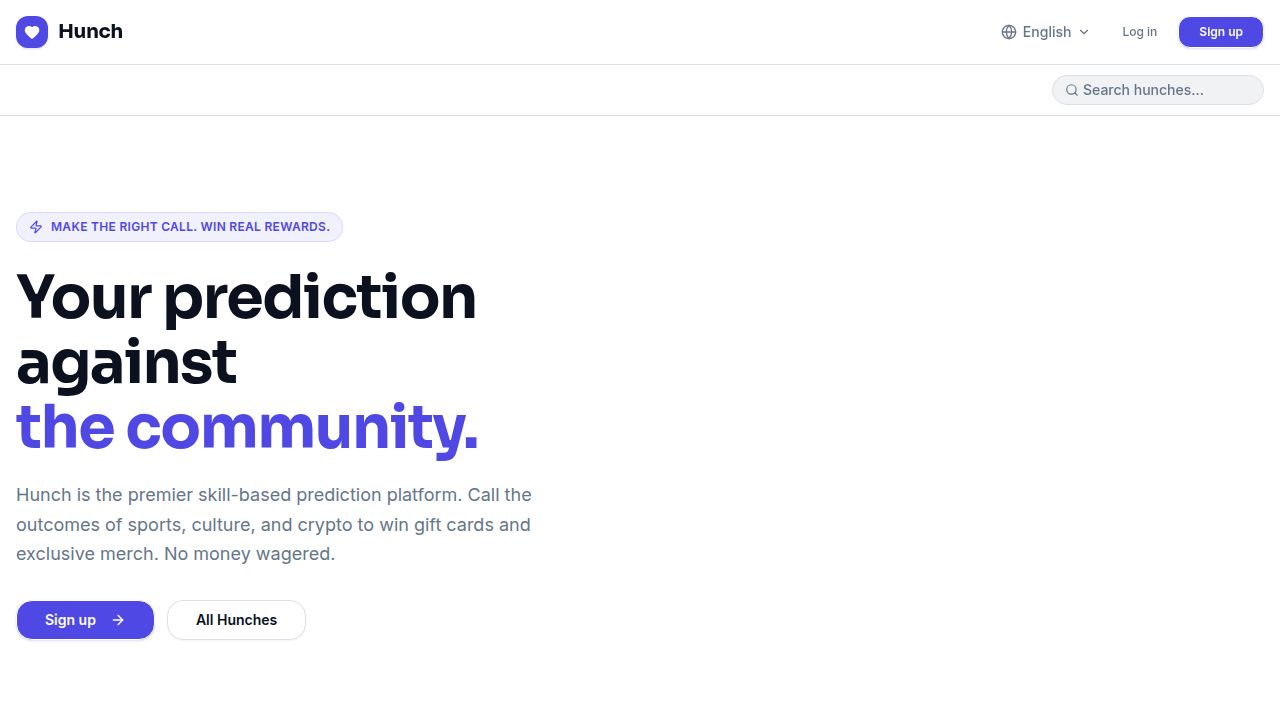
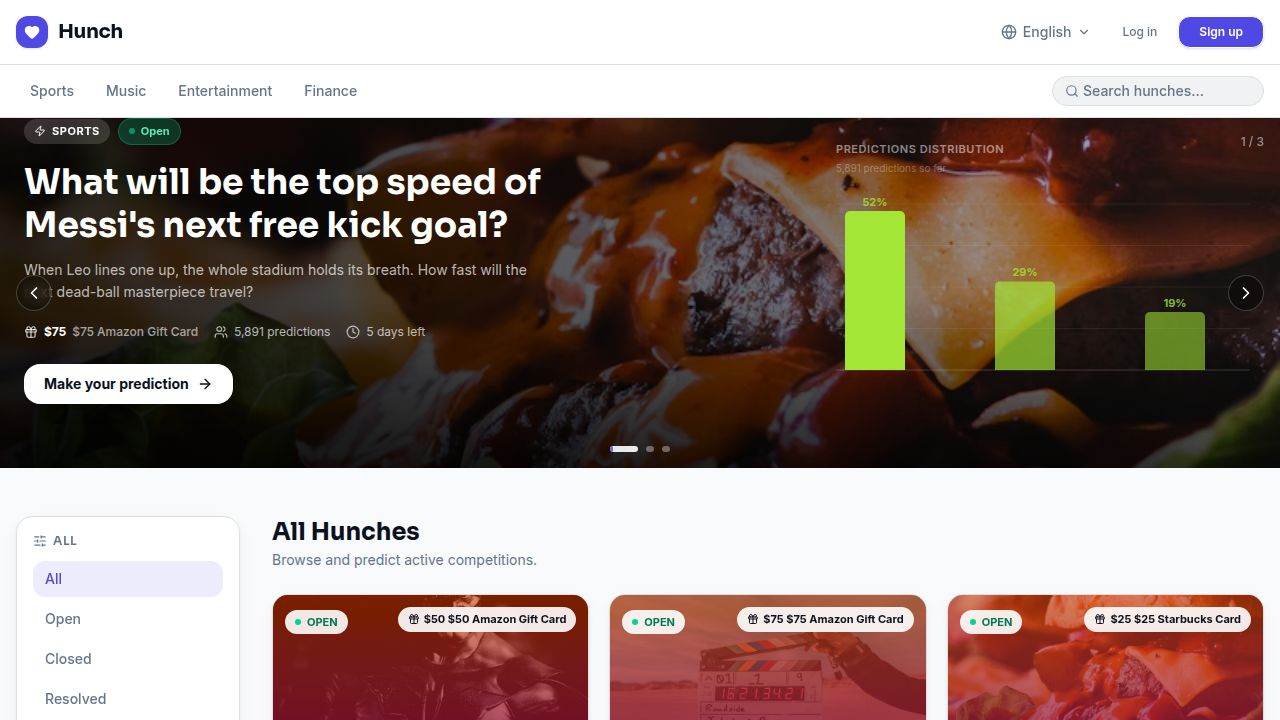
Add a section to user profiles to view active and past predictions
Introduces a new API endpoint `/auth/my-hunches` to fetch user predictions and integrates a `MyHunchesSection` component into the account page, displaying active and past hunches with relevant details and status indicators.

Replit-Commit-Author: Agent
Replit-Commit-Session-Id: c213d012-5b8c-4dcb-91ea-a871a2756a55
Replit-Commit-Checkpoint-Type: full_checkpoint
Replit-Commit-Event-Id: fa843858-0a04-4f65-bb06-474ab399ec9a
Replit-Commit-Screenshot-Url: https://storage.googleapis.com/screenshot-production-us-central1/4ce0d22d-62c3-4f02-9776-44ab9113e667/c213d012-5b8c-4dcb-91ea-a871a2756a55/vBS3oU8
Replit-Helium-Checkpoint-Created: true

diff --git a/artifacts/hunches/src/pages/account.tsx b/artifacts/hunches/src/pages/account.tsx
@@ -10,7 +10,30 @@ import { useUpload } from "@workspace/object-storage-web";
 import {
   AtSign, Check, X, Loader2, Mail, Phone, Calendar,
   MapPin, Lock, Trash2, AlertTriangle, ChevronRight, Camera,
+  Clock, CheckCircle2, XCircle, Users, Hourglass,
 } from "lucide-react";
+
+// ── Types ─────────────────────────────────────────────────────────────────────
+
+interface MyHunchRow {
+  predictionId: number;
+  predictionCreatedAt: string;
+  optionId: number;
+  optionLabel: string;
+  optionPercentage: number;
+  hunchId: number;
+  hunchSlug: string | null;
+  hunchTitle: string;
+  hunchStatus: string;
+  hunchEndsAt: string;
+  hunchImageUrl: string | null;
+  hunchWinnerOption: string | null;
+  hunchParticipantCount: number;
+  hunchTicketCost: number;
+  categoryName: string;
+  categoryColor: string;
+  categoryIcon: string;
+}
 
 // ── Helpers ───────────────────────────────────────────────────────────────────
 
@@ -20,6 +43,183 @@ function formatDate(iso: string | null) {
   return new Date(Number(y), Number(m) - 1, Number(d)).toLocaleDateString("en-US", {
     year: "numeric", month: "long", day: "numeric",
   });
+}
+
+function timeLeft(iso: string): string {
+  const diff = new Date(iso).getTime() - Date.now();
+  if (diff <= 0) return "Ended";
+  const days = Math.floor(diff / 86400000);
+  const hours = Math.floor((diff % 86400000) / 3600000);
+  const mins = Math.floor((diff % 3600000) / 60000);
+  if (days > 0) return `${days}d ${hours}h left`;
+  if (hours > 0) return `${hours}h ${mins}m left`;
+  return `${mins}m left`;
+}
+
+// ── My Hunches Section ────────────────────────────────────────────────────────
+
+function MyHunchesSection() {
+  const [, setLocation] = useLocation();
+  const [hunches, setHunches] = useState<MyHunchRow[]>([]);
+  const [loading, setLoading] = useState(true);
+  const [tab, setTab] = useState<"active" | "past">("active");
+
+  useEffect(() => {
+    fetch("/api/auth/my-hunches", { credentials: "include" })
+      .then((r) => r.json())
+      .then((data: MyHunchRow[]) => { setHunches(data); setLoading(false); })
+      .catch(() => setLoading(false));
+  }, []);
+
+  const active = hunches.filter((h) => h.hunchStatus === "open");
+  const past = hunches.filter((h) => h.hunchStatus !== "open");
+  const shown = tab === "active" ? active : past;
+
+  if (!loading && hunches.length === 0) return null;
+
+  return (
+    <div className="bg-card border border-border rounded-2xl overflow-hidden">
+      {/* Header with tab pills */}
+      <div className="px-6 py-4 border-b border-border flex items-center justify-between gap-4">
+        <h2 className="text-sm font-semibold text-foreground">My Hunches</h2>
+        <div className="flex items-center gap-1 bg-muted rounded-xl p-1">
+          {(["active", "past"] as const).map((t) => {
+            const count = t === "active" ? active.length : past.length;
+            return (
+              <button
+                key={t}
+                onClick={() => setTab(t)}
+                className={`flex items-center gap-1.5 px-3 py-1.5 rounded-lg text-xs font-semibold transition-colors ${
+                  tab === t ? "bg-card text-foreground shadow-sm" : "text-muted-foreground hover:text-foreground"
+                }`}
+              >
+                {t === "active" ? "Active" : "Past"}
+                {count > 0 && (
+                  <span className={`min-w-[18px] h-[18px] rounded-full flex items-center justify-center text-[10px] font-bold ${
+                    tab === t ? "bg-primary text-white" : "bg-muted-foreground/20 text-muted-foreground"
+                  }`}>{count}</span>
+                )}
+              </button>
+            );
+          })}
+        </div>
+      </div>
+
+      <div className="divide-y divide-border">
+        {loading ? (
+          [0, 1, 2].map((i) => (
+            <div key={i} className="px-6 py-4 flex items-center gap-4">
+              <div className="w-12 h-12 rounded-xl bg-muted animate-pulse shrink-0" />
+              <div className="flex-1 space-y-2">
+                <div className="h-3.5 bg-muted rounded animate-pulse w-3/4" />
+                <div className="h-3 bg-muted rounded animate-pulse w-1/2" />
+              </div>
+            </div>
+          ))
+        ) : shown.length === 0 ? (
+          <div className="px-6 py-10 text-center text-muted-foreground text-sm">
+            {tab === "active" ? "No active hunches right now." : "No past hunches yet."}
+          </div>
+        ) : (
+          shown.map((h) => {
+            const isResolved = h.hunchStatus === "resolved";
+            const isClosed = h.hunchStatus === "closed";
+            const won = isResolved && h.hunchWinnerOption != null && h.optionLabel === h.hunchWinnerOption;
+            const lost = isResolved && h.hunchWinnerOption != null && h.optionLabel !== h.hunchWinnerOption;
+
+            return (
+              <button
+                key={h.predictionId}
+                onClick={() => setLocation(h.hunchSlug ? `/hunch/${h.hunchSlug}` : "/")}
+                className="w-full text-left px-6 py-4 hover:bg-muted/40 transition-colors flex items-center gap-4 group"
+              >
+                {/* Thumbnail or category color swatch */}
+                <div className="shrink-0 w-12 h-12 rounded-xl overflow-hidden relative">
+                  {h.hunchImageUrl ? (
+                    <img src={h.hunchImageUrl} alt="" className="w-full h-full object-cover" />
+                  ) : (
+                    <div className="w-full h-full" style={{ backgroundColor: h.categoryColor + "22" }}>
+                      <div className="w-full h-full flex items-center justify-center">
+                        <div className="w-3 h-3 rounded-full" style={{ backgroundColor: h.categoryColor }} />
+                      </div>
+                    </div>
+                  )}
+                  {/* Status overlay icon */}
+                  <div className="absolute -bottom-1 -right-1">
+                    {h.hunchStatus === "open" && (
+                      <div className="w-5 h-5 rounded-full bg-green-500 border-2 border-card flex items-center justify-center">
+                        <Clock className="w-2.5 h-2.5 text-white" />
+                      </div>
+                    )}
+                    {won && (
+                      <div className="w-5 h-5 rounded-full bg-emerald-500 border-2 border-card flex items-center justify-center">
+                        <CheckCircle2 className="w-2.5 h-2.5 text-white" />
+                      </div>
+                    )}
+                    {lost && (
+                      <div className="w-5 h-5 rounded-full bg-red-500 border-2 border-card flex items-center justify-center">
+                        <XCircle className="w-2.5 h-2.5 text-white" />
+                      </div>
+                    )}
+                    {isClosed && (
+                      <div className="w-5 h-5 rounded-full bg-amber-500 border-2 border-card flex items-center justify-center">
+                        <Hourglass className="w-2.5 h-2.5 text-white" />
+                      </div>
+                    )}
+                  </div>
+                </div>
+
+                {/* Content */}
+                <div className="flex-1 min-w-0">
+                  <div className="flex items-center gap-2 mb-0.5">
+                    <span className="text-[10px] font-bold uppercase tracking-wider" style={{ color: h.categoryColor }}>
+                      {h.categoryName}
+                    </span>
+                  </div>
+                  <p className="text-sm font-semibold text-foreground leading-snug truncate pr-2">{h.hunchTitle}</p>
+                  <div className="flex items-center gap-3 mt-1">
+                    <span className="text-xs text-muted-foreground">
+                      Your pick: <span className="font-medium text-foreground">{h.optionLabel}</span>
+                      <span className="text-muted-foreground/70 ml-1">({Math.round(h.optionPercentage)}%)</span>
+                    </span>
+                    <span className="flex items-center gap-1 text-xs text-muted-foreground">
+                      <Users className="w-3 h-3" />
+                      {h.hunchParticipantCount.toLocaleString()}
+                    </span>
+                  </div>
+                </div>
+
+                {/* Right: status badge + arrow */}
+                <div className="flex items-center gap-2 shrink-0">
+                  {h.hunchStatus === "open" && (
+                    <span className="text-xs font-medium text-green-600 bg-green-50 border border-green-200 px-2.5 py-1 rounded-full whitespace-nowrap">
+                      {timeLeft(h.hunchEndsAt)}
+                    </span>
+                  )}
+                  {won && (
+                    <span className="text-xs font-bold text-emerald-700 bg-emerald-50 border border-emerald-200 px-2.5 py-1 rounded-full">
+                      Correct
+                    </span>
+                  )}
+                  {lost && (
+                    <span className="text-xs font-bold text-red-700 bg-red-50 border border-red-200 px-2.5 py-1 rounded-full">
+                      Incorrect
+                    </span>
+                  )}
+                  {isClosed && (
+                    <span className="text-xs font-medium text-amber-700 bg-amber-50 border border-amber-200 px-2.5 py-1 rounded-full">
+                      Pending
+                    </span>
+                  )}
+                  <ChevronRight className="w-4 h-4 text-muted-foreground group-hover:text-foreground transition-colors" />
+                </div>
+              </button>
+            );
+          })
+        )}
+      </div>
+    </div>
+  );
 }
 
 function SectionCard({ title, children }: { title: string; children: React.ReactNode }) {
@@ -473,6 +673,9 @@ export default function Account() {
               <p className="text-sm text-muted-foreground">{user.email}</p>
             </div>
           </div>
+
+          {/* My Hunches */}
+          <MyHunchesSection />
 
           {/* Profile */}
           <SectionCard title="Profile">

diff --git a/artifacts/api-server/src/routes/auth.ts b/artifacts/api-server/src/routes/auth.ts
@@ -1,7 +1,10 @@
 import { Router, type IRouter } from "express";
-import { eq, and, gt, isNull } from "drizzle-orm";
+import { eq, and, gt, isNull, desc } from "drizzle-orm";
 import { db } from "@workspace/db";
-import { usersTable, otpsTable, ticketCodesTable, ticketCodeRedemptionsTable, ticketTransactionsTable } from "@workspace/db";
+import {
+  usersTable, otpsTable, ticketCodesTable, ticketCodeRedemptionsTable,
+  ticketTransactionsTable, predictionsTable, optionsTable, hunchesTable, categoriesTable,
+} from "@workspace/db";
 import { ReplitConnectors } from "@replit/connectors-sdk";
 import bcrypt from "bcryptjs";
 
@@ -524,6 +527,39 @@ router.post("/auth/ticket-codes/redeem", async (req, res): Promise<void> => {
   });
 
   res.json({ ok: true, ticketsGranted: row.bonusTickets, newTotal: updated?.tickets ?? null });
+});
+
+// ── My Hunches ──────────────────────────────────────────────────────────────
+
+router.get("/auth/my-hunches", async (req, res): Promise<void> => {
+  if (!req.session.userId) { res.status(401).json({ error: "Not authenticated" }); return; }
+  const rows = await db
+    .select({
+      predictionId: predictionsTable.id,
+      predictionCreatedAt: predictionsTable.createdAt,
+      optionId: optionsTable.id,
+      optionLabel: optionsTable.label,
+      optionPercentage: optionsTable.percentage,
+      hunchId: hunchesTable.id,
+      hunchSlug: hunchesTable.slug,
+      hunchTitle: hunchesTable.title,
+      hunchStatus: hunchesTable.status,
+      hunchEndsAt: hunchesTable.endsAt,
+      hunchImageUrl: hunchesTable.imageUrl,
+      hunchWinnerOption: hunchesTable.winnerOption,
+      hunchParticipantCount: hunchesTable.participantCount,
+      hunchTicketCost: hunchesTable.ticketCost,
+      categoryName: categoriesTable.name,
+      categoryColor: categoriesTable.color,
+      categoryIcon: categoriesTable.icon,
+    })
+    .from(predictionsTable)
+    .innerJoin(hunchesTable, eq(hunchesTable.id, predictionsTable.hunchId))
+    .innerJoin(optionsTable, eq(optionsTable.id, predictionsTable.optionId))
+    .innerJoin(categoriesTable, eq(categoriesTable.id, hunchesTable.categoryId))
+    .where(eq(predictionsTable.userId, req.session.userId))
+    .orderBy(desc(hunchesTable.endsAt));
+  res.json(rows);
 });
 
 // ── Ticket activity ─────────────────────────────────────────────────────────